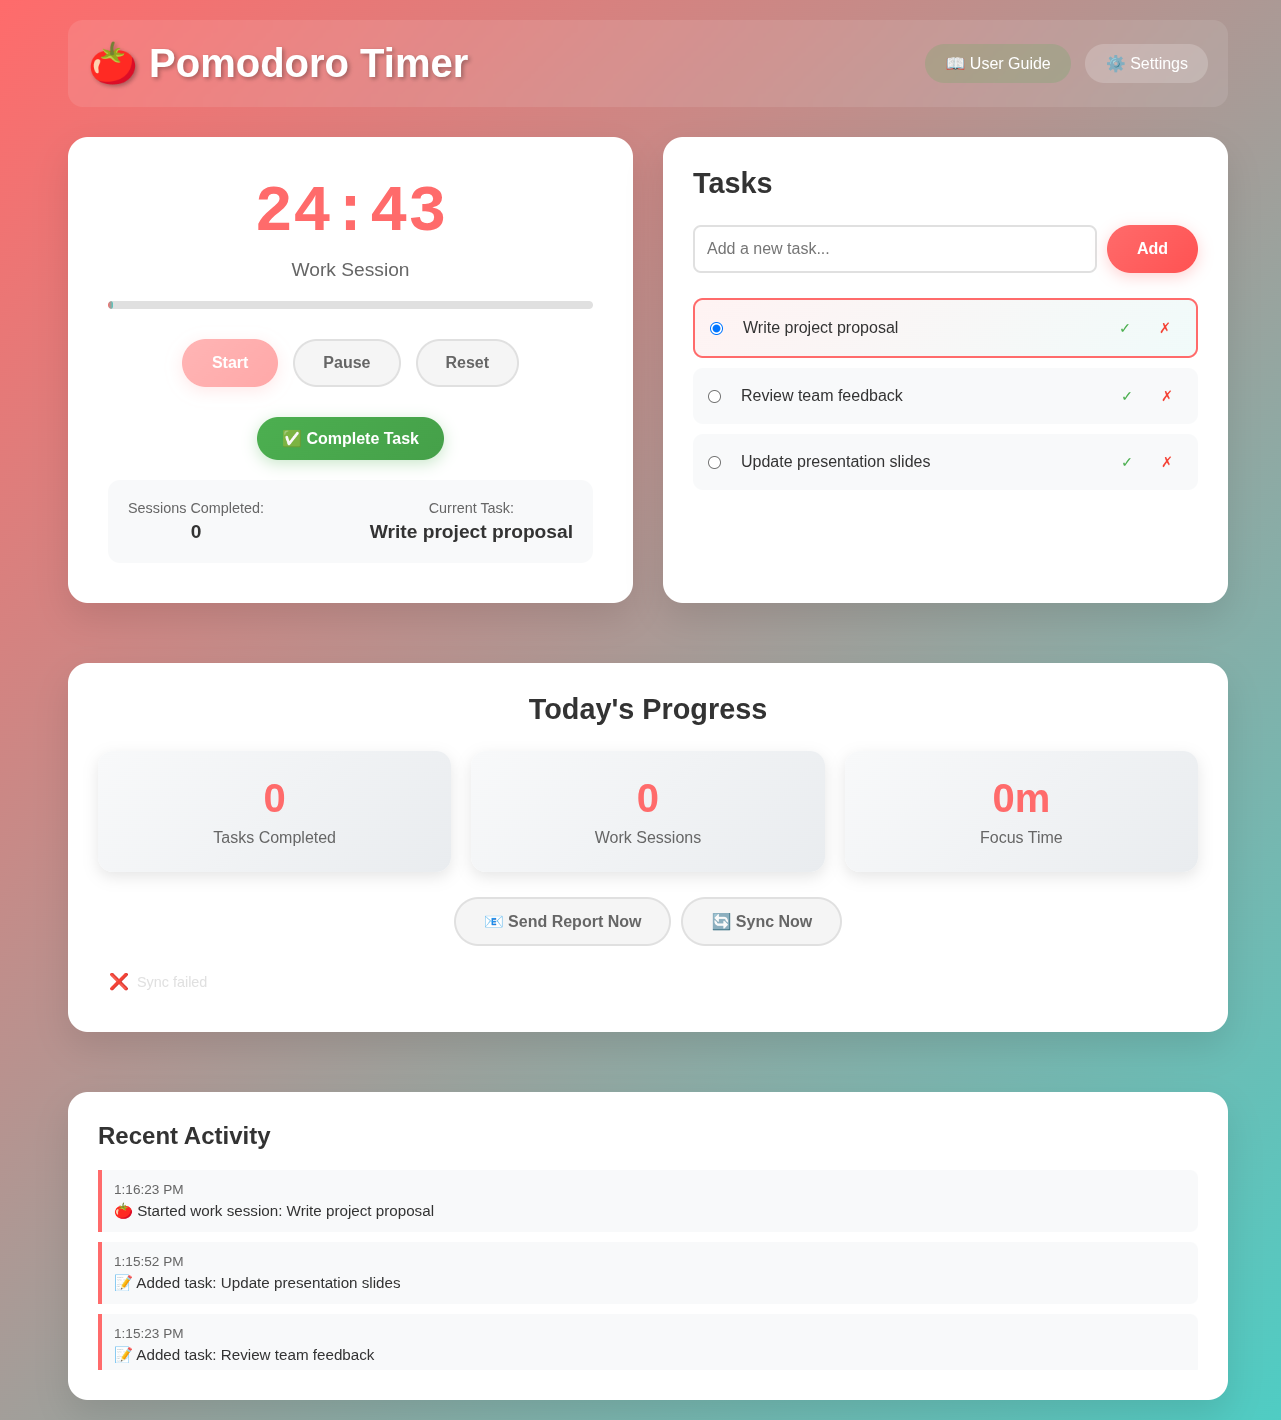
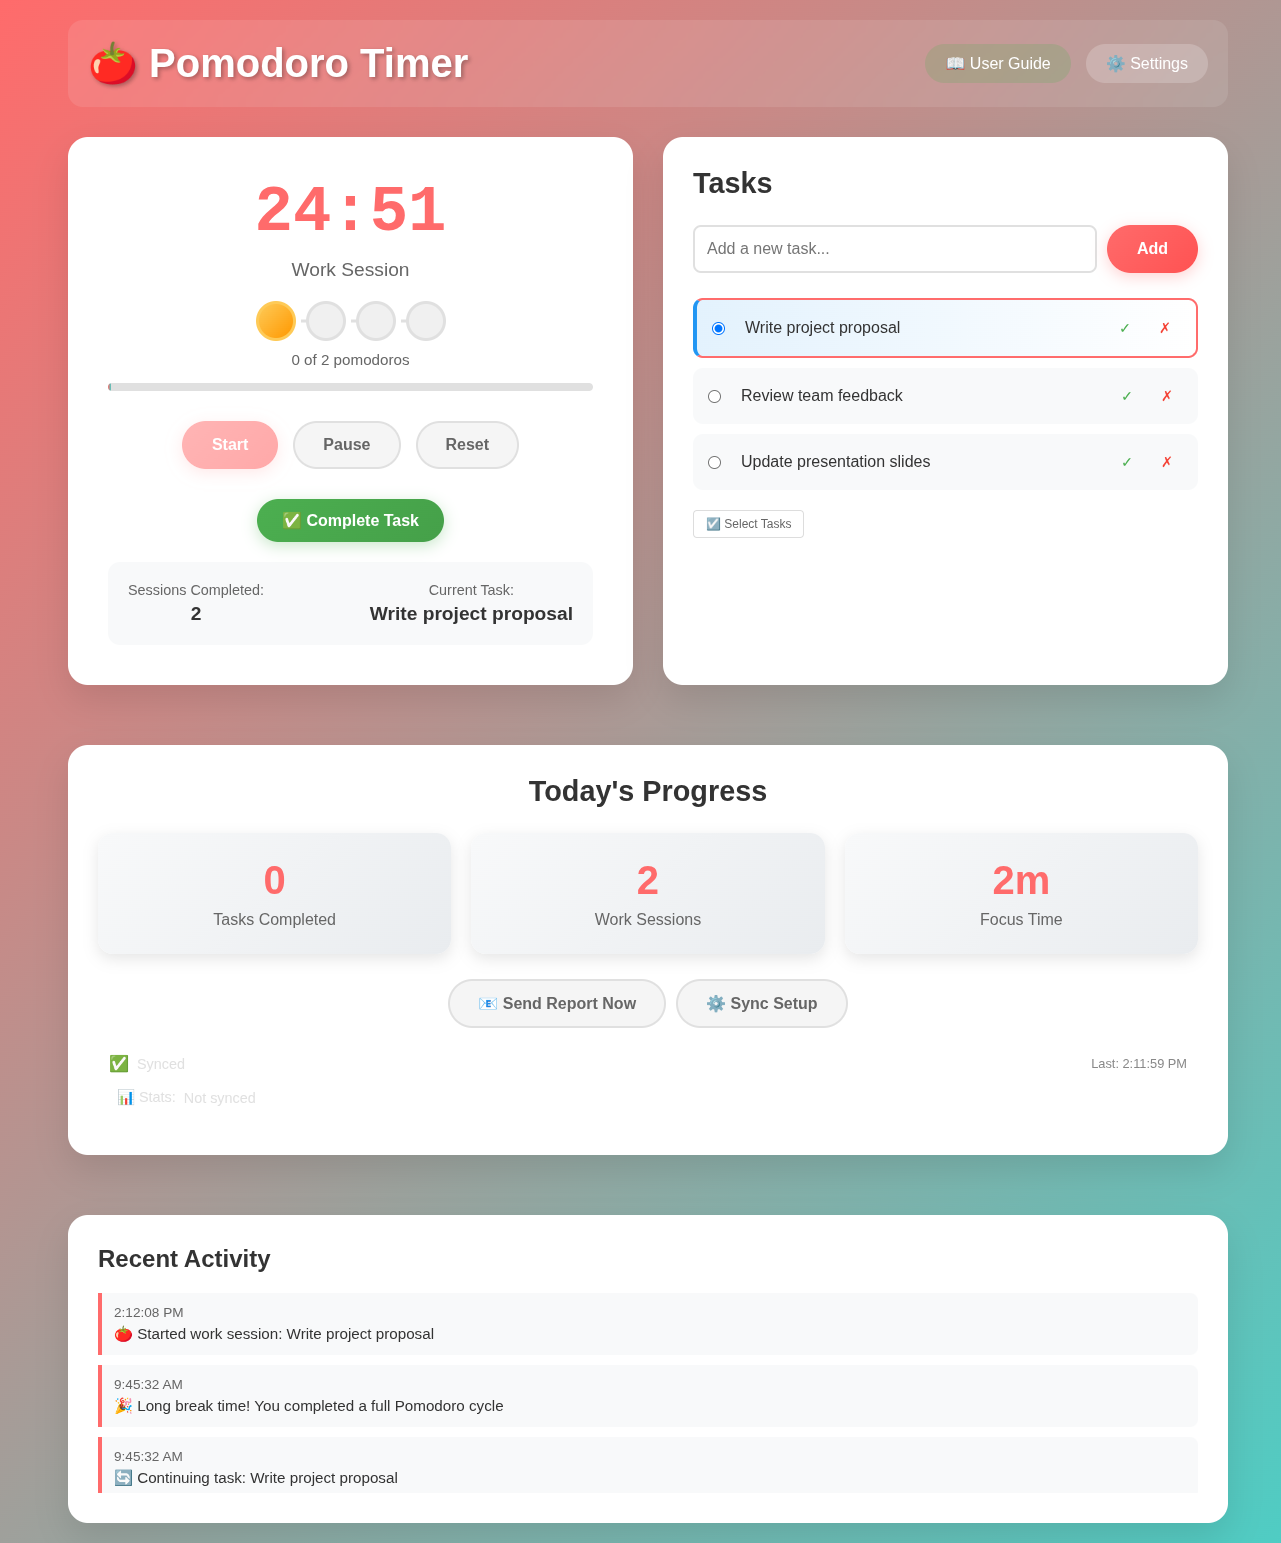
Update documentation: Add v2.0 screenshots, privacy section, and user guide enhancements
Updated all screenshots to reflect new v2.0 features including:
- Long breaks (classic Pomodoro technique)
- Custom alert sounds with upload functionality
- Organized settings panel with all configuration options
- Pomodoro cycle progress indicator

Added comprehensive Privacy & Data Storage section explaining:
- Local-first, privacy-first approach
- Browser storage benefits (localStorage, IndexedDB)
- Complete data ownership and control
- No tracking or analytics
- GDPR compliance
- Optional Google Sheets sync

🤖 Generated with [Claude Code](https://claude.com/claude-code)

diff --git a/user-guide.html b/user-guide.html
@@ -530,6 +530,7 @@
                 <li><a href="#google-sheets">📊 Google Sheets Integration</a></li>
                 <li><a href="#pro-tips">💡 Pro Tips & Best Practices</a></li>
                 <li><a href="#faq">❓ Frequently Asked Questions</a></li>
+                <li><a href="#privacy">🔒 Privacy & Data Storage</a></li>
                 <li><a href="#ready">🎉 Ready to Start</a></li>
             </ul>
         </div>
@@ -540,14 +541,23 @@
                     <h2>🧠 Why the Pomodoro Technique Works</h2>
                     <p>The Pomodoro Technique, developed by Francesco Cirillo in the late 1980s, is a scientifically-backed time management method that breaks work into focused 25-minute intervals. Here's why it's so effective:</p>
 
+                    <h3>The Classic Pomodoro Cycle</h3>
+                    <p>The traditional technique uses a cycle of focused work sessions followed by breaks:</p>
+                    <ul class="benefits-list">
+                        <li><strong>Work Sessions:</strong> 25 minutes of focused work on a single task</li>
+                        <li><strong>Short Breaks:</strong> 5 minutes after each work session (1st, 2nd, 3rd pomodoro)</li>
+                        <li><strong>Long Breaks:</strong> 15-30 minutes after completing 4 pomodoros</li>
+                        <li><strong>Repeat:</strong> The cycle continues throughout your workday</li>
+                    </ul>
+
                     <h3>Scientific Benefits</h3>
                     <ul class="benefits-list">
-                        <li><strong>Reduces Mental Fatigue:</strong> Regular breaks prevent cognitive overload and maintain peak performance</li>
+                        <li><strong>Reduces Mental Fatigue:</strong> Regular short breaks prevent cognitive overload; long breaks provide deeper recovery</li>
                         <li><strong>Improves Focus:</strong> Short, timed sessions create urgency and eliminate distractions</li>
                         <li><strong>Builds Momentum:</strong> Completing small tasks creates a sense of accomplishment and motivation</li>
                         <li><strong>Combats Procrastination:</strong> 25 minutes feels manageable, making it easier to start difficult tasks</li>
                         <li><strong>Enhances Time Awareness:</strong> You become more conscious of how long tasks actually take</li>
-                        <li><strong>Prevents Burnout:</strong> Mandatory breaks ensure sustainable work patterns</li>
+                        <li><strong>Prevents Burnout:</strong> The long break cycle ensures sustainable work patterns over extended periods</li>
                     </ul>
 
                     <div class="tip">
@@ -594,8 +604,12 @@
                 <h2>🔧 Key Features</h2>
                 <div class="feature-grid">
                     <div class="feature-card">
-                        <h4>⏱ Customizable Timer</h4>
-                        <p>Adjust work sessions (default 25 min) and break duration (default 5 min) to match your needs and attention span.</p>
+                        <h4>⏱ Customizable Timers</h4>
+                        <p>Adjust work sessions (default 25 min), short breaks (default 5 min), and long breaks (default 15 min) to match your needs.</p>
+                    </div>
+                    <div class="feature-card">
+                        <h4>🔄 Long Breaks</h4>
+                        <p>Classic Pomodoro technique with extended breaks after completing multiple work sessions (default: every 4 pomodoros).</p>
                     </div>
                     <div class="feature-card">
                         <h4>📝 Task Management</h4>
@@ -603,11 +617,11 @@
                     </div>
                     <div class="feature-card">
                         <h4>📊 Progress Tracking</h4>
-                        <p>View real-time statistics: tasks completed today, work sessions finished, and total focus time achieved.</p>
+                        <p>View real-time statistics and visual pomodoro cycle progress showing how many sessions until your next long break.</p>
                     </div>
                     <div class="feature-card">
-                        <h4>🔔 Smart Notifications</h4>
-                        <p>Get desktop notifications when sessions complete, even when the browser tab isn't active.</p>
+                        <h4>🔔 Custom Alert Sounds</h4>
+                        <p>Upload your own alert sounds for breaks and completions, with individual volume and duration controls for each type.</p>
                     </div>
                     <div class="feature-card">
                         <h4>📧 Daily Reports</h4>
@@ -617,14 +631,50 @@
                         <h4>🔄 Data Sync</h4>
                         <p>Optional Google Sheets integration to backup your data and sync across multiple devices.</p>
                     </div>
+                    <div class="feature-card">
+                        <h4>💡 Smart Notifications</h4>
+                        <p>Get desktop notifications when sessions complete, even when the browser tab isn't active.</p>
+                    </div>
                 </div>
 
                 <h3 id="settings">⚙ Settings & Customization</h3>
-                <p>Access all configuration options through the Settings panel. Customize timers, set up notifications, configure Google Sheets sync, and more.</p>
+                <p>Access all configuration options through the Settings panel. The settings are organized into logical sections for easy navigation:</p>
+
+                <h4>⏱ Timer Durations</h4>
+                <ul class="benefits-list">
+                    <li><strong>Work Duration:</strong> Length of focused work sessions (1-60 minutes, default 25)</li>
+                    <li><strong>Short Break Duration:</strong> Length of regular breaks (1-30 minutes, default 5)</li>
+                    <li><strong>Long Break Duration:</strong> Length of extended breaks (1-60 minutes, default 15)</li>
+                </ul>
+
+                <h4>🔄 Pomodoro Cycle</h4>
+                <ul class="benefits-list">
+                    <li><strong>Long Break Interval:</strong> Number of work sessions before a long break (2-8 pomodoros, default 4)</li>
+                    <li><strong>Progress Indicator:</strong> Visual circles show your progress through the current cycle</li>
+                    <li><strong>Cycle Counter:</strong> Display shows "X of Y pomodoros" to track your position</li>
+                </ul>
+
+                <h4>📢 Alert Sounds</h4>
+                <p>Customize alert sounds for different events. Each sound can be individually configured:</p>
+                <ul class="benefits-list">
+                    <li><strong>Short Break Alert:</strong> Plays when it's time for a regular break</li>
+                    <li><strong>Long Break Alert:</strong> Plays when it's time for an extended break</li>
+                    <li><strong>Work Start Alert:</strong> Plays when a break ends and work resumes</li>
+                    <li><strong>Task Complete Alert:</strong> Plays when you mark a task as complete</li>
+                    <li><strong>Daily Reset Alert:</strong> Optional sound when the day resets at midnight</li>
+                </ul>
+                <p>For each alert, you can:</p>
+                <ul class="benefits-list">
+                    <li>Upload custom audio files (MP3, WAV, OGG formats)</li>
+                    <li>Adjust volume (0-100%)</li>
+                    <li>Set duration (1-30 seconds)</li>
+                    <li>Test the sound before saving</li>
+                    <li>Reset to default sound anytime</li>
+                </ul>
 
                 <img src="images/settings-panel.png" alt="Settings panel showing all configuration options" class="screenshot">
                 <p style="text-align: center; margin-top: 10px; color: #666; font-style: italic;">
-                    Complete settings panel with timer customization, email setup, and Google Sheets integration
+                    Complete settings panel with timer customization, pomodoro cycle, custom sounds, and Google Sheets integration
                 </p>
             </div>
 
@@ -766,6 +816,14 @@
                         <h4>📈 Weekly Reviews</h4>
                         <p>Review your daily reports weekly to identify productivity patterns and optimize your schedule.</p>
                     </div>
+                    <div class="feature-card">
+                        <h4>🔊 Sound Strategy</h4>
+                        <p>Use calming sounds for breaks (to encourage rest) and energizing sounds for work start (to boost motivation). Different sounds help your brain recognize different states.</p>
+                    </div>
+                    <div class="feature-card">
+                        <h4>⏰ Long Break Activities</h4>
+                        <p>Use long breaks (15-30 min) for substantial recovery: take a walk, eat a snack, meditate, or completely disconnect from work. This deep rest sustains productivity for hours.</p>
+                    </div>
                 </div>
 
                 <div class="tip">
@@ -788,7 +846,17 @@
 
                 <div class="faq-item">
                     <div class="faq-question">Q: Can I change the timer duration?</div>
-                    <p>Absolutely! Click the settings button (⚙) to customize both work session duration (1-60 minutes) and break duration (1-30 minutes) to suit your needs.</p>
+                    <p>Absolutely! Click the settings button (⚙) to customize work sessions (1-60 minutes), short breaks (1-30 minutes), and long breaks (1-60 minutes) to suit your needs.</p>
+                </div>
+
+                <div class="faq-item">
+                    <div class="faq-question">Q: What are long breaks and how do they work?</div>
+                    <p>Long breaks are extended rest periods that occur after completing multiple work sessions (default: every 4 pomodoros). They help prevent burnout and maintain productivity throughout the day. The progress indicator shows "X of Y pomodoros" to track when your next long break will occur.</p>
+                </div>
+
+                <div class="faq-item">
+                    <div class="faq-question">Q: Can I upload my own alert sounds?</div>
+                    <p>Yes! Go to Settings → Alert Sounds section. You can upload custom audio files (MP3, WAV, OGG) for 5 different alert types: short breaks, long breaks, work start, task completion, and daily reset. Each sound has independent volume and duration controls.</p>
                 </div>
 
                 <div class="faq-item">
@@ -814,6 +882,68 @@
                 <div class="faq-item">
                     <div class="faq-question">Q: What happens during breaks?</div>
                     <p>Take a real break! Step away from your screen, stretch, hydrate, or take a short walk. Avoid work-related activities to let your mind recharge.</p>
+                </div>
+            </div>
+
+            <div class="section" id="privacy">
+                <div class="why-pomodoro">
+                    <h2>🔒 Privacy & Data Storage</h2>
+                    <p>Your privacy matters. The Pomodoro Timer is built with a <strong>privacy-first, local-first</strong> approach that puts you in complete control of your data.</p>
+
+                    <h3>How Your Data is Stored</h3>
+                    <p>All your productivity data is stored <strong>locally in your browser</strong> using modern web storage technologies:</p>
+                    <ul class="benefits-list">
+                        <li><strong>localStorage:</strong> Stores your tasks, settings, daily statistics, and activity logs</li>
+                        <li><strong>IndexedDB:</strong> Stores custom alert sound files (audio data)</li>
+                        <li><strong>No External Servers:</strong> By default, nothing is sent to any server or third party</li>
+                    </ul>
+
+                    <h3>Privacy Benefits of Browser Storage</h3>
+                    <ul class="benefits-list">
+                        <li><strong>Complete Data Ownership:</strong> You own 100% of your data - it stays on your device</li>
+                        <li><strong>No Tracking or Analytics:</strong> We don't collect, track, or analyze your usage patterns</li>
+                        <li><strong>Works Offline:</strong> Your timer functions completely offline after initial load</li>
+                        <li><strong>No Account Required:</strong> Start using immediately without creating accounts or providing personal information</li>
+                        <li><strong>GDPR & Privacy Law Compliant:</strong> No data collection means no privacy concerns</li>
+                        <li><strong>Zero Server Dependency:</strong> Your productivity workflow isn't affected by server outages or internet connectivity</li>
+                        <li><strong>Browser Sandboxing:</strong> Data is isolated per browser and protected by browser security</li>
+                    </ul>
+
+                    <h3>What Data is Stored Locally?</h3>
+                    <ul class="benefits-list">
+                        <li>Your task list and task completion status</li>
+                        <li>Timer settings (work duration, break duration, long break interval)</li>
+                        <li>Daily statistics (sessions completed, focus time, tasks completed)</li>
+                        <li>Activity log (session start times, completions, breaks)</li>
+                        <li>Custom alert sound files you upload</li>
+                        <li>Sound preferences (volume, duration for each alert type)</li>
+                        <li>Google Sheets webhook URL (if you choose to enable sync)</li>
+                    </ul>
+
+                    <h3>Optional Cloud Sync: Your Choice</h3>
+                    <p>Google Sheets integration is <strong>completely optional</strong>. It's designed for users who want:</p>
+                    <ul class="benefits-list">
+                        <li>Backup of their productivity data</li>
+                        <li>Access from multiple devices</li>
+                        <li>Advanced analysis and custom reports</li>
+                    </ul>
+                    <p><strong>Important:</strong> Even with Google Sheets sync enabled, data only goes to <em>your own</em> Google Sheet that you control. No third-party servers are involved.</p>
+
+                    <h3>Data Control & Management</h3>
+                    <ul class="benefits-list">
+                        <li><strong>Clear Data Anytime:</strong> Use your browser's settings to clear all stored data instantly</li>
+                        <li><strong>Export Capability:</strong> Sync to Google Sheets acts as a data export mechanism</li>
+                        <li><strong>No Vendor Lock-in:</strong> Your data is in standard formats you can access directly</li>
+                        <li><strong>Transparent Storage:</strong> Use browser DevTools to inspect exactly what's stored</li>
+                    </ul>
+
+                    <div class="tip">
+                        <strong>🔐 Privacy Recommendation:</strong> If you need maximum privacy, simply don't configure Google Sheets integration. The timer works perfectly as a standalone, fully private productivity tool with zero external communication.
+                    </div>
+
+                    <div class="warning">
+                        <strong>⚠ Important Note:</strong> Browser storage is tied to your specific browser on your specific device. If you clear browser data, uninstall the browser, or use a different device, your local data will not be available. Use Google Sheets sync if you need backup or multi-device access.
+                    </div>
                 </div>
             </div>
 
